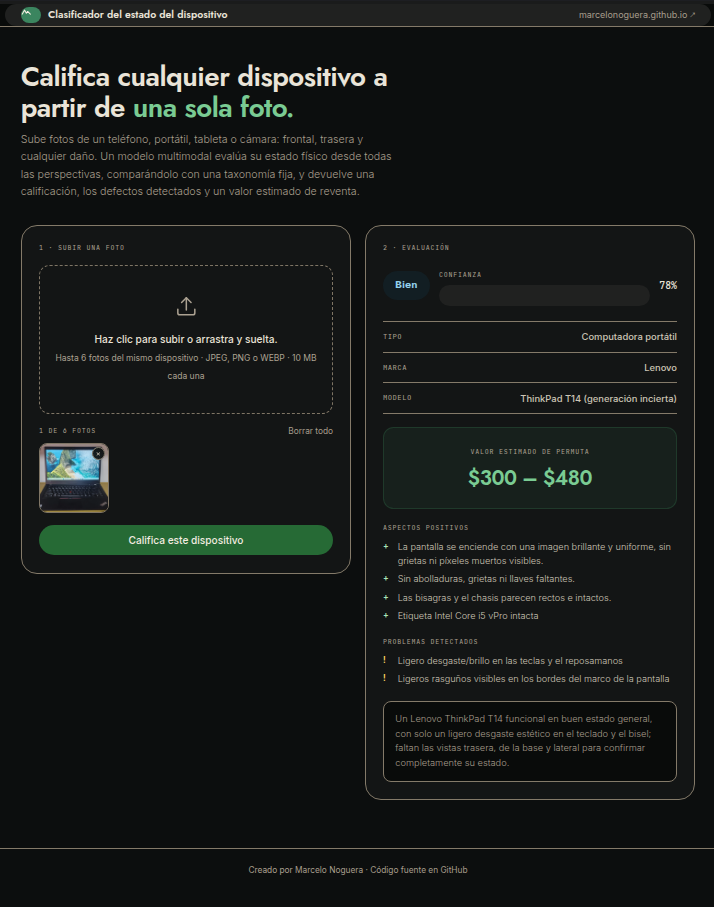
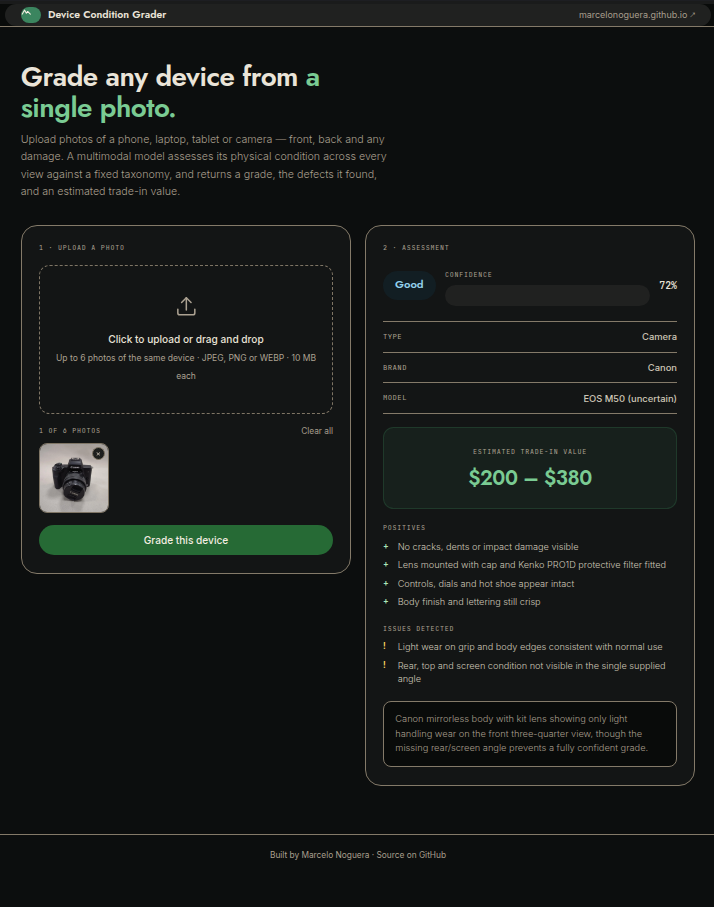
Swap grader screenshot back to the Canon EOS M50 example, in English
This capture shows the uncertainty labeling and missing-angle note more
clearly than the ThinkPad one. Updates alt text to match.

diff --git a/index.html b/index.html
@@ -343,7 +343,7 @@
 
       <div class="visual">
         <a href="assets/condition-grader.png" target="_blank" rel="noopener" style="display:block;width:100%">
-          <img src="assets/condition-grader.png" alt="Device Condition Grader web app grading a Lenovo ThinkPad T14 laptop: Good condition, 78% confidence, type Laptop, brand Lenovo, model ThinkPad T14 (generation uncertain), estimated trade-in value $300-$480." style="width:100%;display:block;border-radius:var(--r-lg);border:1px solid var(--border-2);box-shadow:0 10px 32px rgba(0,0,0,.4)" loading="lazy" />
+          <img src="assets/condition-grader.png" alt="Device Condition Grader web app grading a Canon EOS M50 camera: Good condition, 72% confidence, type Camera, brand Canon, model EOS M50 (uncertain), estimated trade-in value $200-$380." style="width:100%;display:block;border-radius:var(--r-lg);border:1px solid var(--border-2);box-shadow:0 10px 32px rgba(0,0,0,.4)" loading="lazy" />
         </a>
       </div>
     </div>
